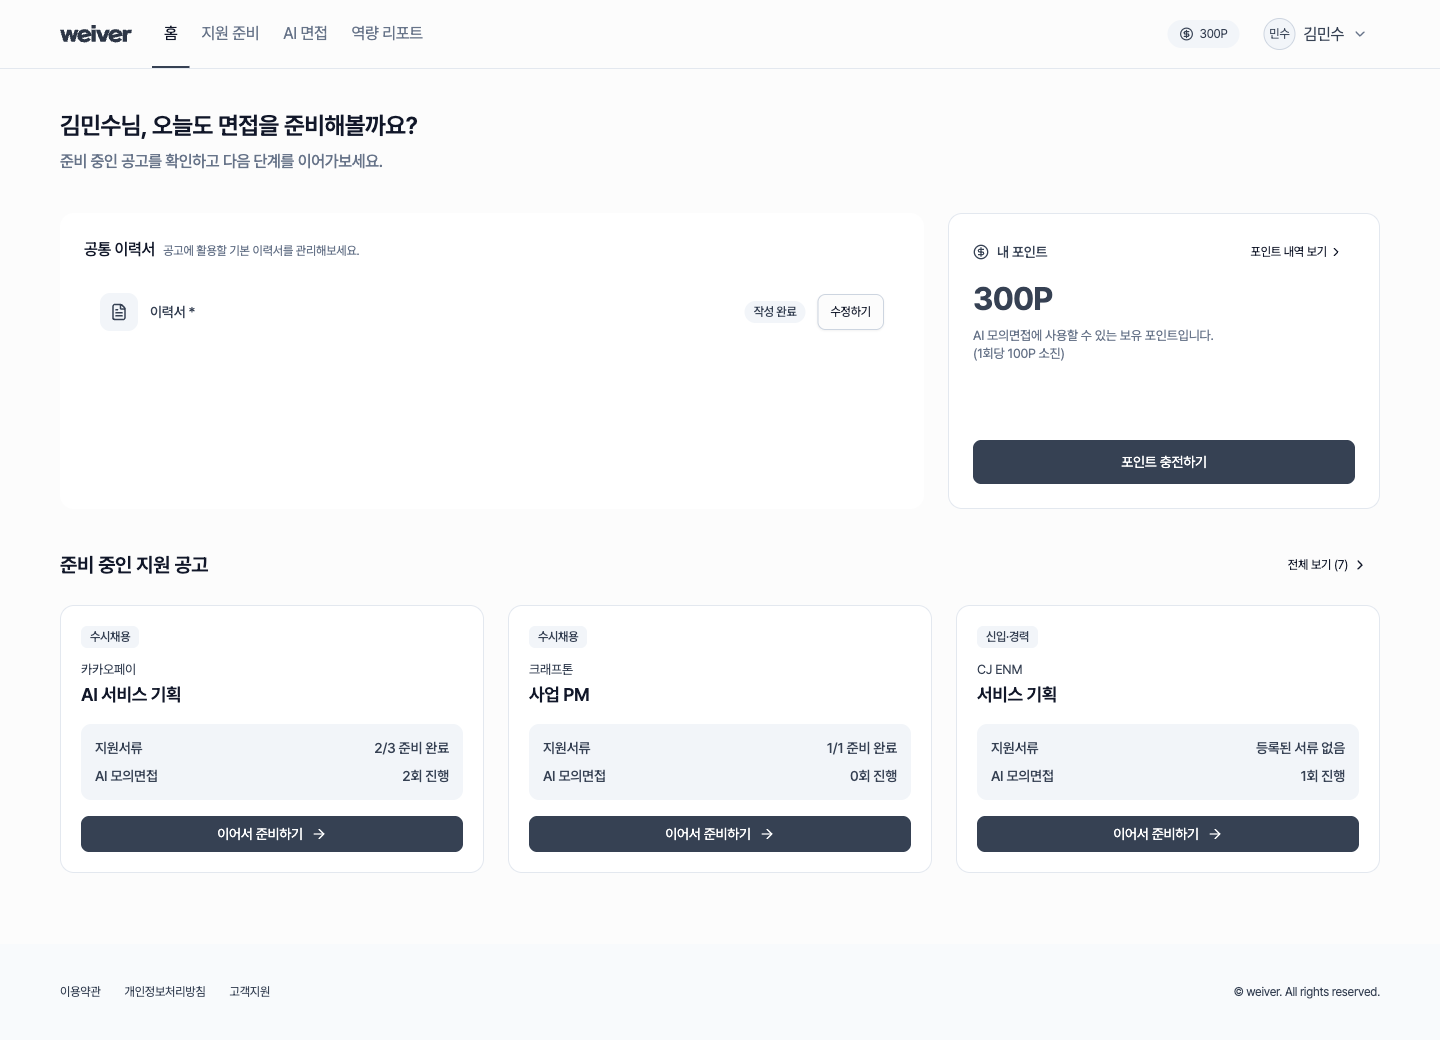
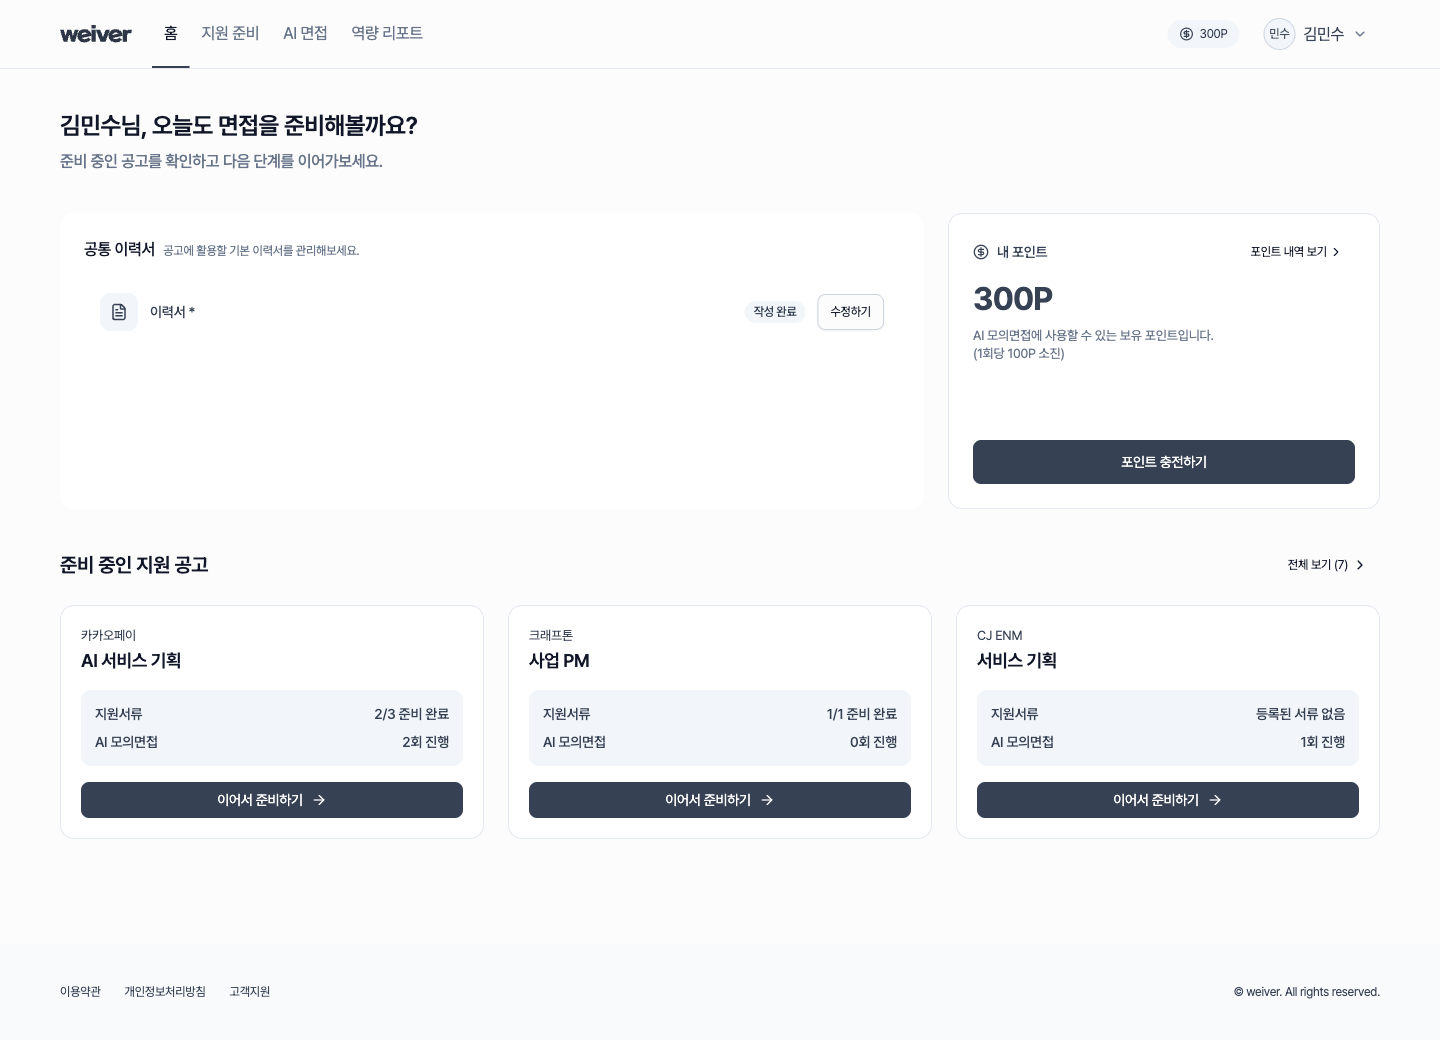
fix: 입력받지 않는 홈 공고 채용 유형 라벨 제거 (#195)

Changed region(s): [[0.0312, 0.5846, 0.9688, 0.8308]]

diff --git a/src/pages/home/_components/home-job-posting-card.tsx b/src/pages/home/_components/home-job-posting-card.tsx
@@ -1,6 +1,5 @@
 import { ArrowRight } from 'lucide-react';
 
-import { Badge } from '@/components/ui/badge';
 import { Button } from '@/components/ui/button';
 
 import type { HomeJobPosting } from '../_types/home';
@@ -18,11 +17,6 @@ export function HomeJobPostingCard({ posting, onContinue }: HomeJobPostingCardPr
       aria-label={`${posting.companyName} ${posting.positionName}`}
       className="border-border-light flex h-full min-w-0 flex-col rounded-xl border bg-white p-5"
     >
-      {posting.recruitmentLabel ? (
-        <Badge className="bg-bg-tertiary text-text-secondary mb-3 self-start rounded-sm px-2 py-0.5">
-          {posting.recruitmentLabel}
-        </Badge>
-      ) : null}
       <p className="text-body3 text-text-secondary wrap-anywhere">{posting.companyName}</p>
       <h3 className="text-h4 text-text-primary mt-1 mb-4 wrap-anywhere">{posting.positionName}</h3>
       <dl className="bg-bg-tertiary text-body2 text-text-secondary mt-auto space-y-2 rounded-lg p-3.5">

diff --git a/src/pages/home/_storybook/fixtures.ts b/src/pages/home/_storybook/fixtures.ts
@@ -14,7 +14,6 @@ export const exampleHome = {
           id: 'kakaopay',
           companyName: '카카오페이',
           positionName: 'AI 서비스 기획',
-          recruitmentLabel: '수시채용',
           documents: [
             { kind: 'resume', status: 'complete', required: true },
             { kind: 'coverLetter', status: 'complete', required: true },
@@ -26,7 +25,6 @@ export const exampleHome = {
           id: 'krafton',
           companyName: '크래프톤',
           positionName: '사업 PM',
-          recruitmentLabel: '수시채용',
           documents: [{ kind: 'resume', status: 'complete', required: true }],
           interviewCount: 0,
         },
@@ -34,7 +32,6 @@ export const exampleHome = {
           id: 'cjenm',
           companyName: 'CJ ENM',
           positionName: '서비스 기획',
-          recruitmentLabel: '신입·경력',
           documents: [],
           interviewCount: 1,
         },

diff --git a/src/pages/home/home-view.stories.tsx b/src/pages/home/home-view.stories.tsx
@@ -224,7 +224,6 @@ export const LongContent: Story = {
             ...exampleHome.postings.data.postings[0],
             companyName: '사용자 경험을 연구하고 새로운 서비스를 만드는 아주 긴 회사 이름',
             positionName: '글로벌 AI 플랫폼 전략 및 신규 서비스 프로덕트 매니저',
-            recruitmentLabel: '신입·경력 상시 채용',
             interviewCount: 1234,
           },
         ],

diff --git a/src/pages/home/_types/home.ts b/src/pages/home/_types/home.ts
@@ -22,7 +22,6 @@ export type HomePoints = {
 };
 
 export type HomeJobPosting = JobPostingSummary & {
-  recruitmentLabel?: string;
   documents: ApplicationDocument[];
   interviewCount: number;
 };
